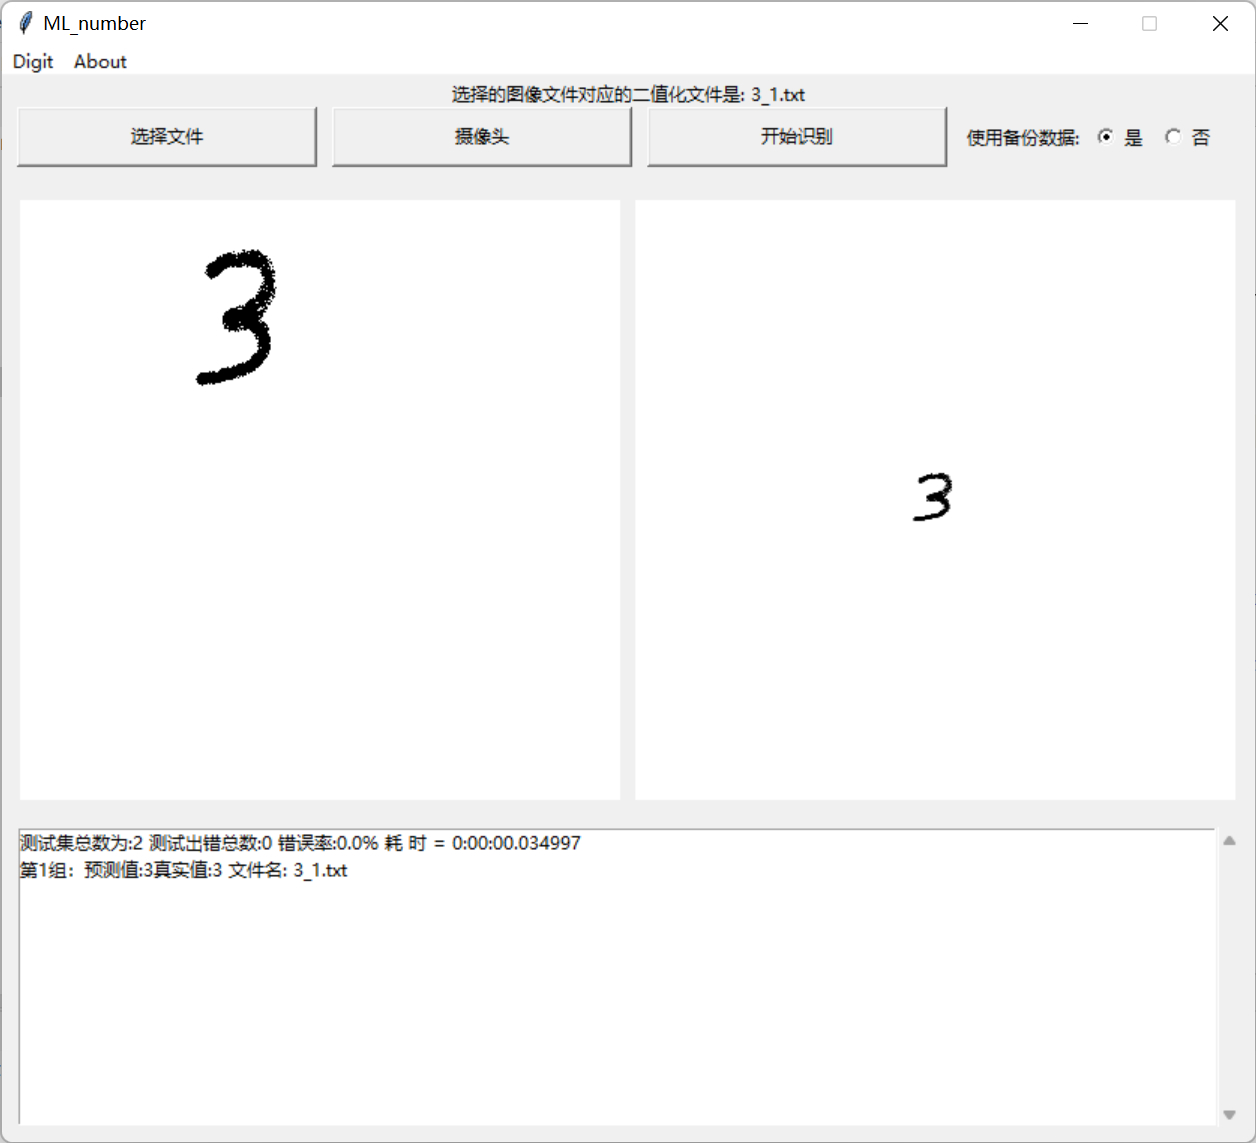
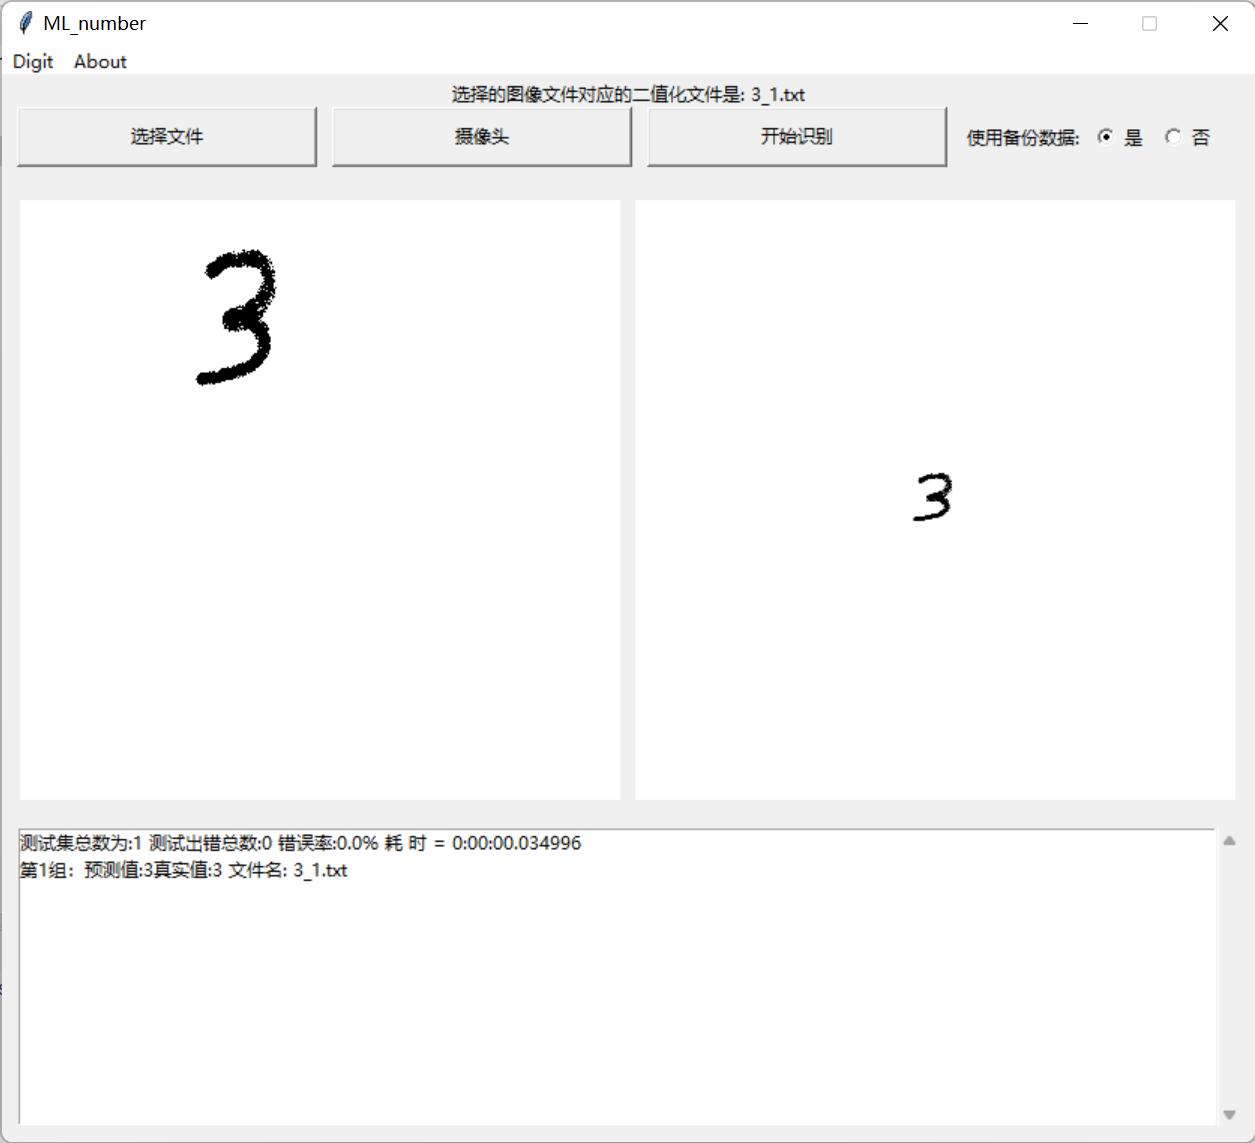
修复显示错误

diff --git a/kNN.py b/kNN.py
@@ -31,11 +31,11 @@ def KNN(test_data, train_data, train_label, k):
 # 文本向量化 32x32 -> 1x1024
 def img2vector(filename):
     returnVect = []
-    fr = open(filename)
-    for i in range(32):
-        lineStr = fr.readline()
-        for j in range(32):
-            returnVect.append(int(lineStr[j]))
+    with open(filename) as fr:
+        for i in range(32):
+            lineStr = fr.readline()
+            for j in range(32):
+                returnVect.append(int(lineStr[j]))
     return returnVect
 
 
@@ -98,20 +98,21 @@ def main(trained=1, close_number=3):
         train_data = np.load('data_set/train_set_data.npy')
     testFileList = os.listdir('testDigits')
     error_sum = 0
-    test_number = len(testFileList)
+    test_number = 0
     result_list = []
-    for i in range(test_number):
+    for fileNameStr in testFileList:
         # 测试集文件名
-        fileNameStr = testFileList[i]
         # 切片后得到测试集索引
         classNumStr = classNum(fileNameStr)
         if classNumStr is not None:
             test_data = img2vector('testDigits/%s' % fileNameStr)
             # 调用knn算法进行测试
             classifierResult = KNN(test_data, train_data, train_label, Nearest_Neighbor_number)
-            result_list.append("第" + str(i + 1) + "组：" + "预测值:" + str(classifierResult) + "真实值:" + str(classNumStr))
+            result_list.append("第" + str(test_number + 1) + "组：" +
+                               "预测值:" + str(classifierResult) + "真实值:" + str(classNumStr))
             if (classifierResult != classNumStr):
                 error_sum += 1.0
+            test_number += 1
     # print("\n测试集总数为:", test_number)
     # print("测试出错总数:", error_sum)
     # print("\n错误率:", error_sum / float(test_number) * 100, '%')
